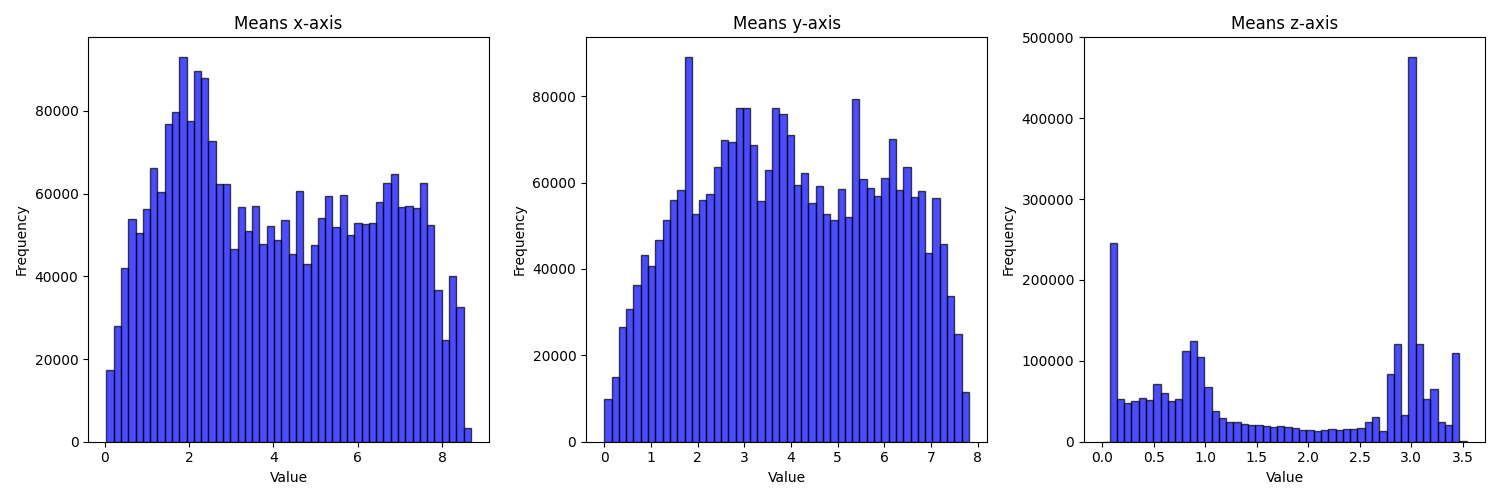
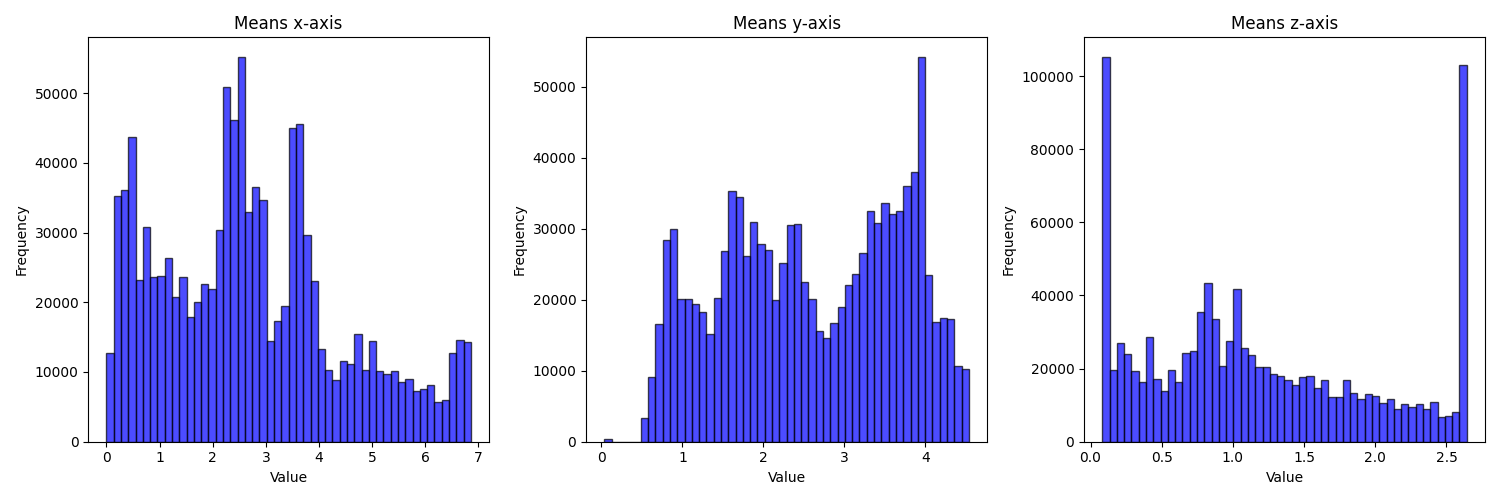
some updates

diff --git a/core/splat.py b/core/splat.py
@@ -4,6 +4,7 @@ from utils.ply_to_ckpt import generate_gsplat_compatible_data
 import numpy as np
 import os
 from sklearn.decomposition import PCA
+from utils.color_shs import RGB2SH, SH2RGB
 
 class SplatData:
     def __init__(self, args=None):
@@ -29,9 +30,29 @@ class SplatData:
                 means, norms, quats, scales, opacities, colors, sh_degree, language_feature, language_feature_large = gaussian_params
                 language_feature = torch.tensor(language_feature).to(device).to(torch.float32)
                 language_feature_large = torch.tensor(language_feature_large).to(device).to(torch.float32)
+                colors = SH2RGB(colors, sh_degree)
+                sh_degree = None
             else:
                 means, norms, quats, scales, opacities, colors, sh_degree = gaussian_params
+            if args.prune:
+                # masks = torch.from_numpy(np.load(os.path.join(args.folder_npy, 'valid_feat_mask.npy'))).bool()
+                mask = (scales < 0.5).all(dim=-1) & (opacities > 0.8).all(dim=-1)
+                print(f"There are {mask.sum()} valid splats out of {means.shape[0]}")
             
+            else:
+                mask = torch.ones(means.shape[0], dtype=torch.bool)
+            
+            means = means[mask]
+            norms = norms[mask]
+            quats = quats[mask]
+            scales = scales[mask]
+            opacities = opacities[mask]
+            colors = colors[mask]
+            
+            if args.language_feature:
+                language_feature = language_feature[mask]
+                language_feature_large = language_feature_large[mask]
+                
             
             quats = quats / quats.norm(dim=-1, keepdim=True)
             scales = torch.exp(scales)
@@ -56,7 +77,9 @@ class SplatData:
             self.save_params_histograms(means, scales, colors, opacities)
             if args.prune:
                 masks = torch.from_numpy(np.load(os.path.join(args.folder_npy, 'valid_feat_mask.npy'))).bool()
-                mask = (scales < 0.5).all(dim=-1) & masks & (means[:,2] < 2) 
+                mask =  (scales < 0.5).all(dim=-1) & masks & (means[:, 2] < 2.0)
+                # 
+                print(f"There are {mask.sum()} valid splats out of {means.shape[0]}")
             else:
                 mask = torch.ones(means.shape[0], dtype=torch.bool)
             sh_degree = None

diff --git a/actions/language_feature.py b/actions/language_feature.py
@@ -57,6 +57,7 @@ class LanguageFeature:
         self.labels = torch.zeros(self.language_feature.shape[0])
         self.cluster_centers = None
         self.class_id = -1
+        self.query_feature = None
         
         self.encoder_hidden_dims = [256, 128, 64, 32, 3]
         self.decoder_hidden_dims = [16, 32, 64, 128, 256, 256, 512]
@@ -66,6 +67,9 @@ class LanguageFeature:
         elif feature_type == "clip":
             self.config = OpenCLIPNetworkConfig()
             self.network = OpenCLIPNetwork(self.config)
+        else:
+            self.network = None
+            self.query_feature = torch.tensor(np.load(feature_type)[0]).to(splatdata.device)
         # self.config = SigLIPNetworkConfig()
         # self.network = SigLIPNetwork(self.config)
         # self.config = OpenCLIPNetworkConfig()
@@ -137,6 +141,13 @@ class LanguageFeature:
         print(text)
         if text == "all":
             self.gs_scores = torch.zeros(self.language_feature.shape[0]).to(self.language_feature.device)
+        elif self.query_feature is not None:
+            new_feature = self.query_feature.to(torch.float)
+            # new_feature = self._get_text_feature(text).to(torch.float)
+            # gs_featuers = self.pca.inverse_transform(self.language_feature.detach().cpu().numpy())
+            Cos = CosineClassifier()
+            scores = Cos(new_feature, self.language_feature_large, scale=False).squeeze(0)
+            self.gs_scores = scores
         else: 
             new_feature = self._get_text_feature(text).to(torch.float)
             # gs_featuers = self.pca.inverse_transform(self.language_feature.detach().cpu().numpy())
@@ -169,7 +180,7 @@ class LanguageFeature:
 
     def update_splat_renderer(self, device='cuda', backend='gsplat'):
         means, norms, quats, scales, opacities, colors, sh_degree, language_feature = self.splats.get_data().values()
-        print(self._feature_map, self._normal_map)
+        # print(self._feature_map, self._normal_map)
         if self.gs_scores.sum() != 0:
             new_colors = colors.clone()
             new_colors[self.gs_scores > self.prune_rate] = RGB2SH(torch.tensor([1, 0, 0]).to(device)).unsqueeze(0)

diff --git a/utils/ply_to_ckpt.py b/utils/ply_to_ckpt.py
@@ -170,8 +170,13 @@ def get_language_feature(ckpt_file):
     if ckpt_file.endswith(".npy"):
         language_feature_large = np.load(ckpt_file)
     elif ckpt_file.endswith(".pth"):
-        (language_feature_large, _) = torch.load(ckpt_file)
+        try: 
+            (language_feature_large, _) = torch.load(ckpt_file)
+        except:
+            language_feature_large = torch.load(ckpt_file)
         language_feature_large = language_feature_large.detach().cpu().numpy()
+    else:
+        raise ValueError("Unsupported file format. Please provide a .npy or .pth file.")
     pca = PCA(n_components=3)
     language_feature = pca.fit_transform(language_feature_large)
     language_feature = torch.tensor((language_feature - language_feature.min(axis=0)) / (language_feature.max(axis=0) - language_feature.min(axis=0)))

diff --git a/utils/color_shs.py b/utils/color_shs.py
@@ -20,8 +20,8 @@ def SH2RGB(sh, degree=0):
     output_rgb = zeroth_order_spherical_harmonics_to_rgb(input_sh)
 
     # check if it's tensor
-    if type(sh) == torch.Tensor:
-        output_rgb = output_rgb.cpu().detach().numpy()
+    # if type(sh) == torch.Tensor:
+    #     output_rgb = output_rgb.cpu().detach().numpy()
     
     return output_rgb
 
